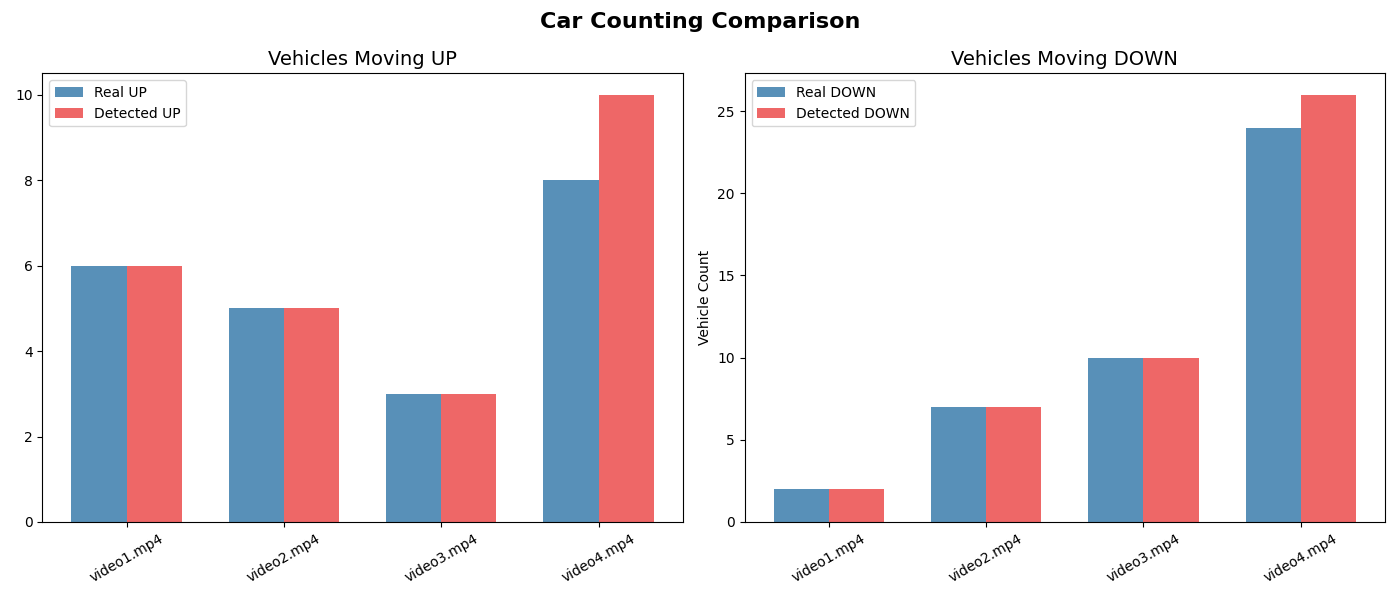
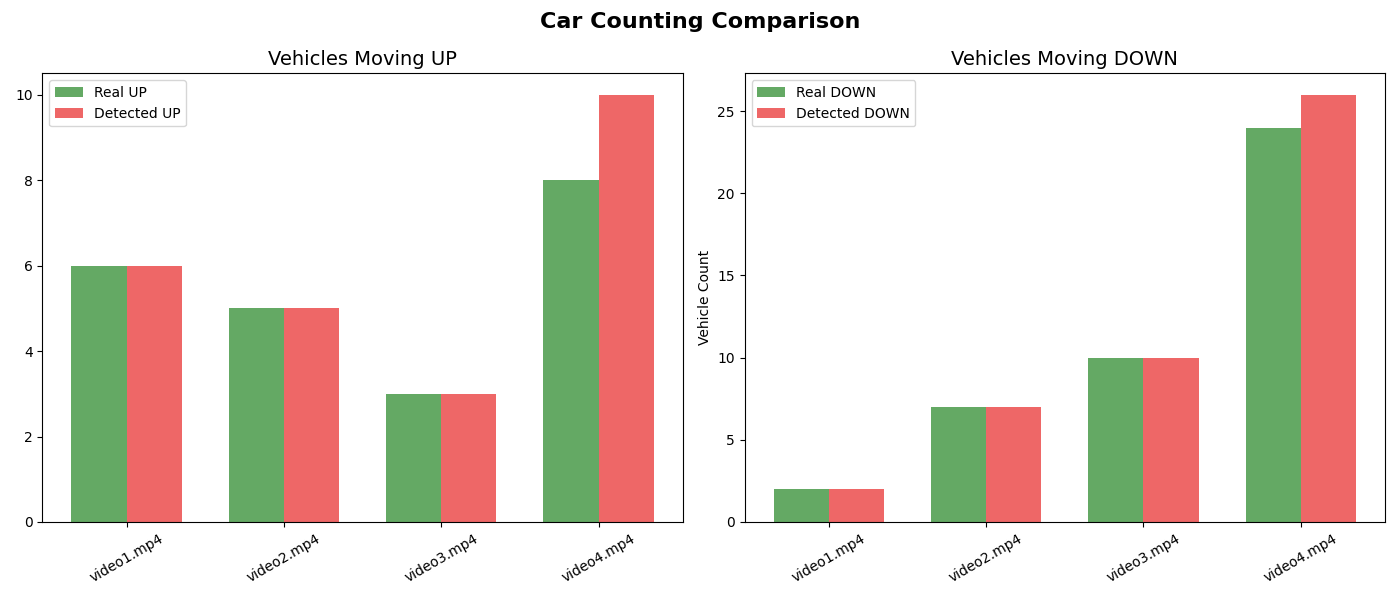
corrected visualizations

diff --git a/validation.py b/validation.py
@@ -60,7 +60,7 @@ if __name__ == "__main__":
     print(f"MAE DOWN: {MAE_down:.2f}")
 
     # Visual comparison
-    colors = ["#5890b8", "#ee6767"]
+    colors = ["#64a964", "#ee6767"]
     x = np.arange(len(df["video"]))
     width = 0.35
 
@@ -88,12 +88,14 @@ if __name__ == "__main__":
     plt.show()
 
     # Error Visualization
-    plt.figure(figsize=(10, 5))
-    plt.bar(df["video"], df["error_up"], label="Error UP", color="#64a964")
-    plt.bar(df["video"], df["error_down"], label="Error DOWN", color="#d62728", alpha=0.8)
+    fig, ax = plt.subplots(figsize=(10, 5))
+    bars_up = ax.bar(x - width/2, df["error_up"], width, label="Error UP", color=colors[0])
+    bars_down = ax.bar(x + width/2, df["error_down"], width, label="Error DOWN", color=colors[1])
     plt.axhline(0, color="black", linestyle="--", linewidth=1)
-    plt.title("Counting Error per Video (Detected - Ground Truth)")
-    plt.ylabel("Error")
-    plt.legend()
-    plt.tight_layout()
+    ax.set_xticks(x)
+    ax.set_xticklabels(df["video"], rotation=30)
+    ax.set_title("Counting Error per Video (Detected - Ground Truth)")
+    ax.set_ylabel("Error (number of vehicles)")
+    ax.legend()
+    fig.tight_layout()
     plt.show()
